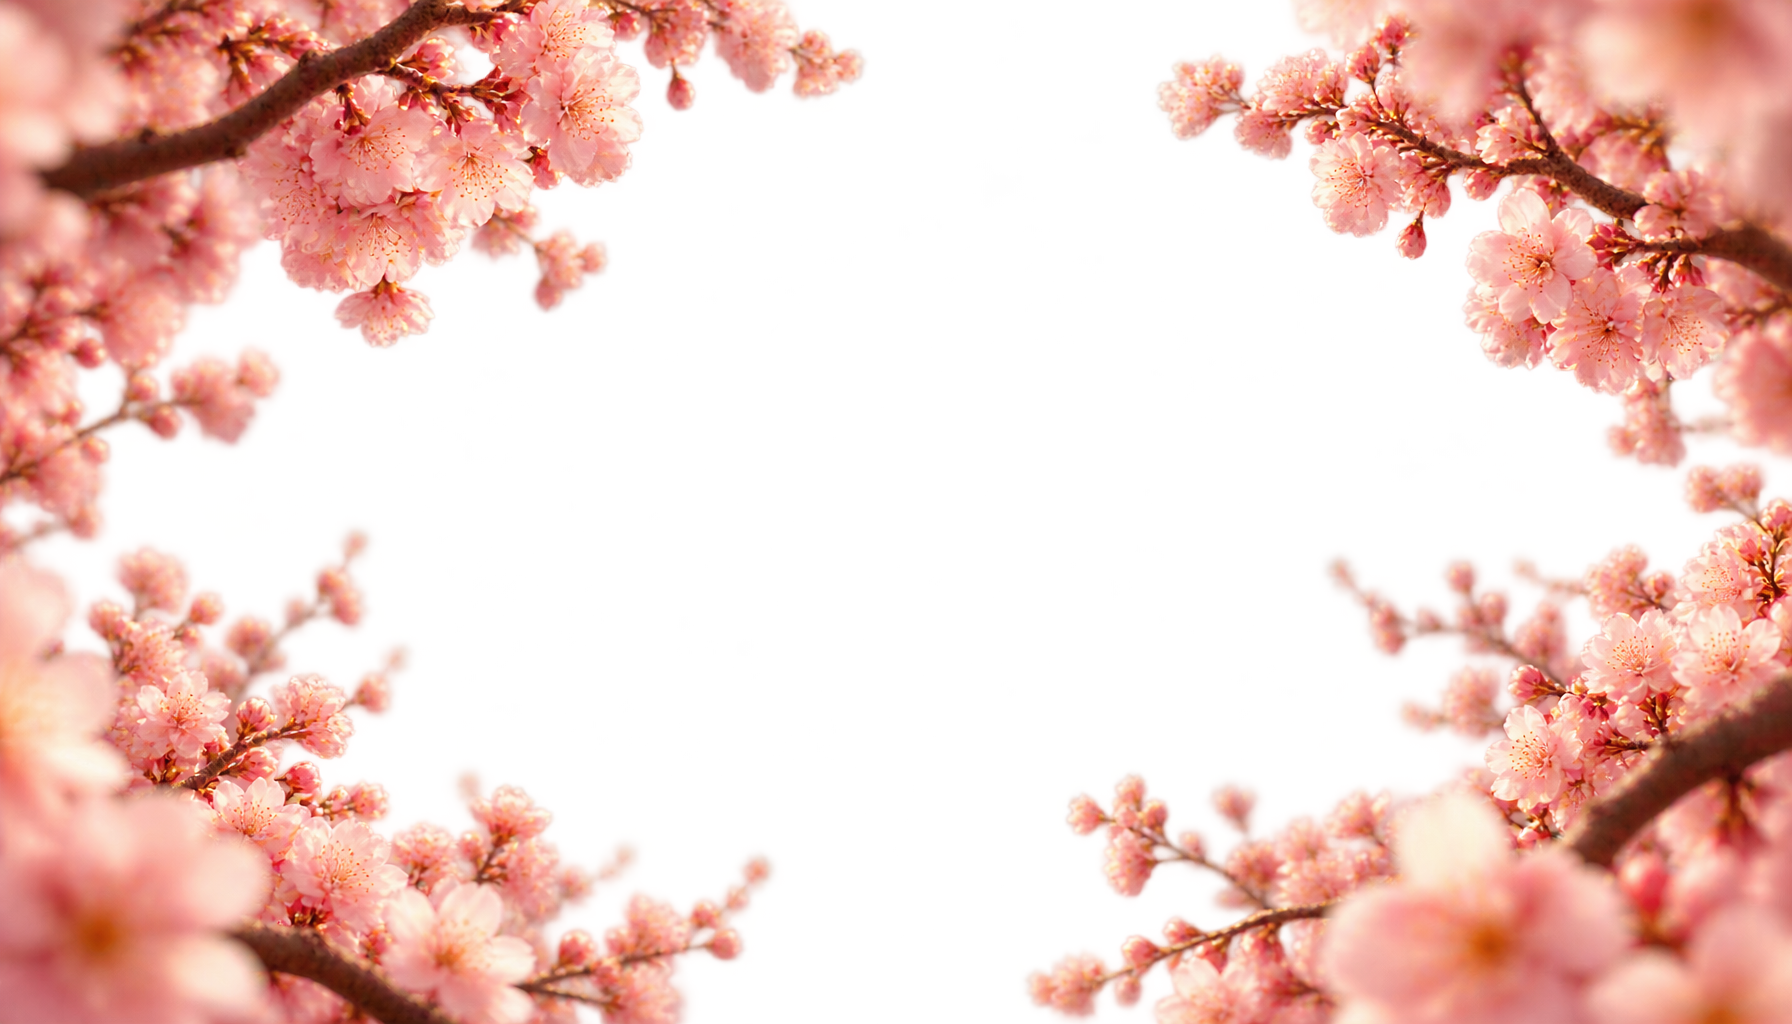
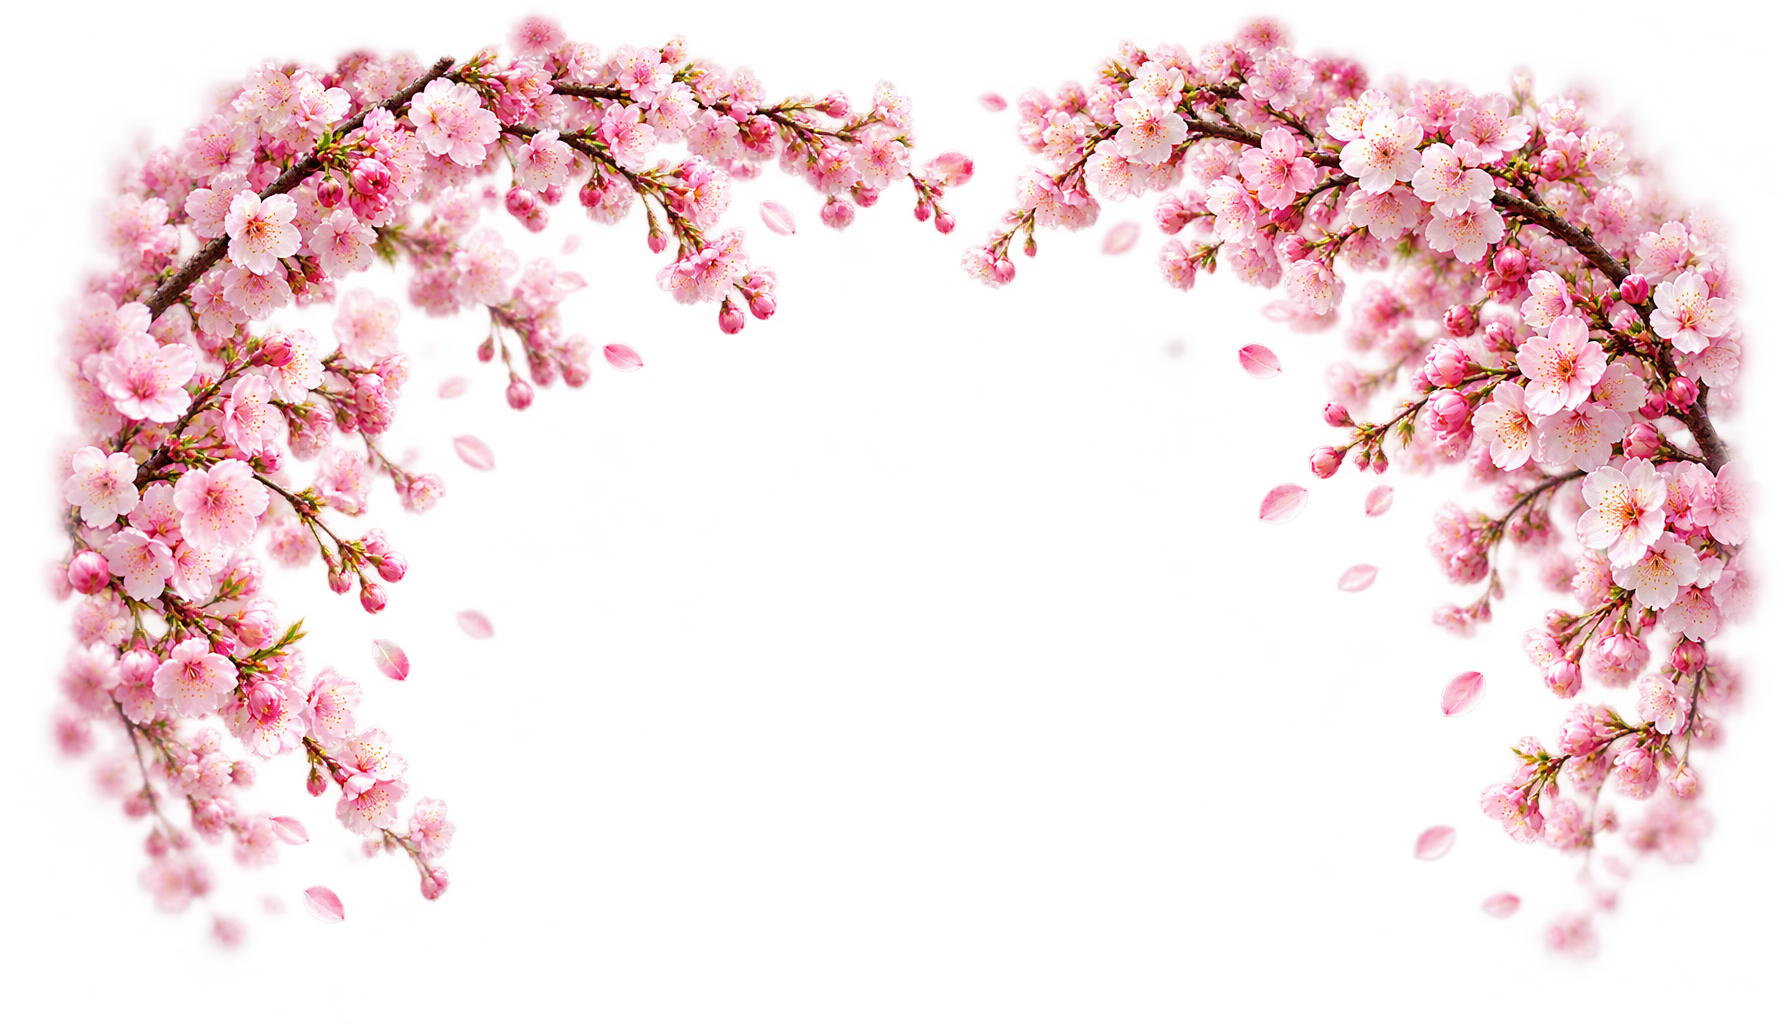
TASK-DB-0088b: regenerate the sakura plates, fix mobile crop and cut perf
Owner review of the live page rejected the Work foreground as nothing like
the reference: plate-work-fg was a wall of out-of-focus bokeh covering half
the frame, and the plates' alpha stopped in visible flat edges. The bloom
plates shared both faults. Three more defects: portrait phones cover-crop
the 1792x1024 landscape plates about 4x (giant blobs, plate edges in view,
and the arrival->work crossfade reads as a fast zoom), the cut-scene
particles stalled the page, and the moon was barely visible on mobile at
night.

Made through ABA's runner in iterate mode (cr-0088e; the runner's own
view_render was down this run, so the vendored build was verified locally
at 1440x900 and 390x844 with screenshots, an alpha-feather analysis of
every plate, a scroll trace of the handoff, and a 4x-throttled frame-time
run through the cut).

- work-fg + both bloom plates regenerated: sharp petal-detailed sprays
  framing the edges, centre open, alpha fully feathered before all four
  image borders
- portrait variants (1024x1536) for work-fg and both bloom plates, swapped
  in by @media (orientation: portrait); same box and fit so the handoff
  stays a cross-fade, not a zoom
- moon positioned per aspect (upper third on portrait, size 19vmin < 768px)
- particles tier-capped: coarse 24 idle / pool 96, DPR clamped to 1

diff --git a/frontend/version-2-app/src/styles/journey.css b/frontend/version-2-app/src/styles/journey.css
@@ -225,13 +225,25 @@ html[data-reduced="true"] .db-daylight[data-half="b"] {
   opacity: var(--bloom-op, 1);
 }
 
+/*
+ * The box and the background position are the near branch plane's own (see
+ * .db-work-fg), so the bloom and the branch plane are crops of the same kind of
+ * image at the same scale in the same place. They are the two layers that
+ * actually cross-fade — the bloom is still fading out while --work-fg is already
+ * ramping up — so if their crops drifted apart that dissolve would read as a
+ * sudden zoom. Matched, the handoff is a pure cross-fade.
+ *
+ * The plate itself is chosen in CSS from the two URLs the component hands down,
+ * so the portrait composition can replace the landscape one with nothing inline
+ * to fight and no base path baked into this file.
+ */
 .db-bloom-plate {
   position: absolute;
-  inset: -3% -3%;
+  inset: -8% -6%;
   background-repeat: no-repeat;
   background-size: cover;
   background-position: center;
-  will-change: transform, opacity;
+  background-image: var(--bg-land, none);
 }
 
 /*
@@ -340,9 +352,33 @@ html[data-reduced="true"] .db-daylight[data-half="b"] {
   background-repeat: no-repeat;
   background-size: cover;
   background-position: center;
+  background-image: var(--bg-land, none);
   opacity: var(--work-fg, 0);
   transform: translate3d(0, var(--par-fg, 0px), 0);
   will-change: transform, opacity;
+}
+
+/*
+ * Portrait phones. A 1792x1024 plate under `cover` in a 390x844 frame shows only
+ * its centre quarter — every blossom is magnified about four times and the
+ * plate's own edge can walk into the viewport. These plates are painted for the
+ * tall frame instead (sprays down both margins, centre open), and because the
+ * box is the viewport exactly, `cover` on the portrait aspect can never bring a
+ * plate edge into view.
+ *
+ * The bloom and the branch plane take the same box and the same fit, so the
+ * handoff between them stays a cross-fade here too.
+ */
+@media (orientation: portrait) {
+  .db-bloom-plate {
+    inset: 0;
+    background-image: var(--bg-port, var(--bg-land, none));
+  }
+
+  .db-work-fg {
+    inset: 0;
+    background-image: var(--bg-port, var(--bg-land, none));
+  }
 }
 
 /* the paper left at the edges of the frame cools into the night */
@@ -410,6 +446,67 @@ html[data-reduced="true"] .db-daylight[data-half="b"] {
     rgba(246, 196, 152, 0.4) 58%,
     rgba(232, 152, 140, 0) 82%
   );
+}
+
+/*
+ * The moon. Same shape of rig as the sun — a zero-size track the disc is centred
+ * on with margins, so the breathing animation can keep ownership of the
+ * transform — but placed from viewport percentages rather than solved from a
+ * plate crop, which is what keeps it in the upper third on a portrait phone.
+ * Its own opacity carries the change of light, so it fades up as the night
+ * settles and is never the layer that crosses the cut.
+ */
+.db-moon {
+  position: absolute;
+  inset: 0;
+  z-index: 4;
+  opacity: var(--moon-op, 0);
+}
+
+.db-moon-track {
+  position: absolute;
+  left: var(--moon-x, 69%);
+  top: var(--moon-y, 20%);
+  width: 0;
+  height: 0;
+}
+
+.db-moon-halo,
+.db-moon-disc {
+  position: absolute;
+  left: 0;
+  top: 0;
+  border-radius: 9999px;
+}
+
+.db-moon-halo {
+  width: calc(var(--moon-size, 12vmin) * 4.4);
+  height: calc(var(--moon-size, 12vmin) * 4.4);
+  margin-left: calc(var(--moon-size, 12vmin) * -2.2);
+  margin-top: calc(var(--moon-size, 12vmin) * -2.2);
+  background: radial-gradient(
+    circle,
+    rgba(214, 228, 255, 0.24) 0%,
+    rgba(184, 204, 255, 0.1) 38%,
+    rgba(150, 175, 235, 0) 70%
+  );
+  animation: db-breathe 27s ease-in-out infinite;
+}
+
+/* a pale disc with its light coming from the upper left, so it reads as a moon */
+.db-moon-disc {
+  width: var(--moon-size, 12vmin);
+  height: var(--moon-size, 12vmin);
+  margin-left: calc(var(--moon-size, 12vmin) / -2);
+  margin-top: calc(var(--moon-size, 12vmin) / -2);
+  background: radial-gradient(
+    circle at 38% 34%,
+    #ffffff 0%,
+    #eef3ff 40%,
+    #d2ddf5 70%,
+    #aebddf 100%
+  );
+  box-shadow: 0 0 42px 14px rgba(188, 208, 255, 0.22);
 }
 
 /* -------------------------------------------------------------------- haze */
@@ -872,6 +969,20 @@ html[data-reduced="true"] .db-daylight[data-half="b"] {
   box-shadow:
     inset 0 1px 0 rgba(255, 226, 196, 0.14),
     0 30px 70px -34px rgba(11, 5, 16, 0.95);
+}
+
+/*
+ * Coarse tier. The backdrop-filter is the most expensive thing on the page: it
+ * re-filters a full-width strip behind the card whenever anything under it
+ * moves, and the cut moves everything at once — which is what made the tear
+ * stutter on a phone. The card is a dark translucent pane either way, so the
+ * blur goes and only a little softness with it. The fine tier keeps it.
+ */
+@media (max-width: 767px) {
+  .db-card {
+    -webkit-backdrop-filter: none;
+    backdrop-filter: none;
+  }
 }
 
 /* the two posts a signboard stands on */

diff --git a/frontend/version-2-app/src/components/journey/ParticleField.tsx b/frontend/version-2-app/src/components/journey/ParticleField.tsx
@@ -74,7 +74,16 @@ export function ParticleField() {
     };
 
     const resize = () => {
-      const dpr = Math.min(1.5, window.devicePixelRatio || 1);
+      /*
+       * The backing store is resolution-capped, not just DPR-capped. The canvas
+       * is a full-viewport transparent surface re-uploaded every frame, so its
+       * pixel count is the whole cost of the effect — and on the coarse tier it
+       * was a 1.5x backing store over the tear, which is exactly where the
+       * particle field peaks and where the frame budget is thinnest. Capping the
+       * coarse tier at 1.0 keeps the sparks the same size in CSS pixels while
+       * cutting the fill by more than half; the fine tier keeps its 1.5.
+       */
+      const dpr = Math.min(detectTier() === "coarse" ? 1 : 1.5, window.devicePixelRatio || 1);
       // measured here, not from journey.vw: child effects run before the
       // scroll driver's effect has written anything, so reading the shared
       // state on mount sized the canvas 0x0 and the petals never appeared
@@ -86,8 +95,10 @@ export function ParticleField() {
       canvas.height = Math.round(h * dpr);
       ctx.setTransform(dpr, 0, 0, dpr, 0, 0);
       particles = Array.from({ length: count() }, () => seed({} as P, true));
-      // one pooled spark per slot, so a burst never allocates mid-frame
-      const cap = detectTier() === "coarse" ? 150 : 420;
+      // one pooled spark per slot, so a burst never allocates mid-frame. the
+      // pool is sized to what the emitters can actually ask for on this tier,
+      // because every live slot is integrated and drawn with two or three arcs
+      const cap = detectTier() === "coarse" ? 96 : 420;
       sparks = Array.from({ length: cap }, () => ({
         x: 0, y: 0, vx: 0, vy: 0, r: 1, life: 0, max: 1, hot: 0,
       })) as Spark[];
@@ -191,7 +202,7 @@ export function ParticleField() {
       if (imp > 0.02) {
         const ix = w / 2 + SEAM.nx * journey.seamD;
         const iy = h / 2 + SEAM.ny * journey.seamD;
-        const per = Math.min(coarse ? 5 : 11, Math.round((coarse ? 7 : 20) * imp));
+        const per = Math.min(coarse ? 3 : 11, Math.round((coarse ? 4 : 20) * imp));
         for (let n = 0; n < per; n++) {
           const a = Math.random() * 2 - 1;
           const o = Math.random() * 2 - 1;
@@ -215,7 +226,7 @@ export function ParticleField() {
        * keeps shedding heat instead of going dark as it widens.
        */
       if (tear > 0.02 && tear < 0.995) {
-        moteDebt += (coarse ? 16 : 46) * dt * (0.4 + 0.6 * tear);
+        moteDebt += (coarse ? 11 : 46) * dt * (0.4 + 0.6 * tear);
         while (moteDebt >= 1) {
           moteDebt -= 1;
           const side = Math.random() < 0.5 ? -1 : 1;

diff --git a/frontend/version-2-app/src/components/journey/Stage.tsx b/frontend/version-2-app/src/components/journey/Stage.tsx
@@ -72,23 +72,51 @@ export function Stage() {
       </div>
 
       {/*
+        The moon. It shares the orb's slot in the scene — above the night plate
+        and the daylight halves, below the tear — but not its geometry: the sun
+        bloom is solved from a sun painted into the arrival plate, while the moon
+        has no such anchor, so the driver places it from viewport percentages
+        (see moonPosition). It sits above the haze so the weather cannot wash it
+        out, and its own opacity carries the change of light, so it is never the
+        layer that crosses the cut.
+      */}
+      <div className="db-moon" aria-hidden="true">
+        <div className="db-moon-track">
+          <div className="db-moon-halo" />
+          <div className="db-moon-disc" />
+        </div>
+      </div>
+
+      {/*
         The intro bloom. Two transparent foreground-only plates — buds at t=0,
         full blossom at full bloom — cross-faded once on load over the frozen
-        arrival plate, which itself never changes. They sit above the daylight
-        halves and below every page layer, and the driver closes --bloom-op
-        before the near branch plane's window opens, so the two fixed foreground
-        layers never stack.
+        arrival plate, which itself never changes. Each plate carries both the
+        landscape and the portrait composition as custom properties and CSS picks
+        one, so the tall frame gets artwork painted for it. They sit above the
+        daylight halves and below every page layer, and the driver closes
+        --bloom-op before the near branch plane's window opens, so the two fixed
+        foreground layers never stack.
       */}
       <div className="db-bloom db-bloom-buds" aria-hidden="true">
         <div
           className="db-bloom-plate db-bloom-plate-buds"
-          style={{ backgroundImage: `url(${ART.bloomBuds})` }}
+          style={
+            {
+              "--bg-land": `url(${ART.bloomBuds})`,
+              "--bg-port": `url(${ART.bloomBudsPortrait})`,
+            } as CSSProperties
+          }
         />
       </div>
       <div className="db-bloom db-bloom-full" aria-hidden="true">
         <div
           className="db-bloom-plate db-bloom-plate-full"
-          style={{ backgroundImage: `url(${ART.bloomFull})` }}
+          style={
+            {
+              "--bg-land": `url(${ART.bloomFull})`,
+              "--bg-port": `url(${ART.bloomFullPortrait})`,
+            } as CSSProperties
+          }
         />
       </div>
 

diff --git a/frontend/version-2-app/src/lib/art.ts b/frontend/version-2-app/src/lib/art.ts
@@ -30,8 +30,19 @@ export const ART = {
   workBg: plate("plate-work-bg.png"),
   /** Scene 2 — the work scene, mid plane: torii, lantern village, pagodas, boat */
   workMid: plate("plate-work-mid.png"),
-  /** Scene 2 — the work scene, near plane: blurred sakura crossing the frame edges */
+  /**
+   * Scene 2 — the work scene, near plane: sharp sakura sprays framing the frame
+   * edges, centre open. Alpha feathered to nothing well inside the plate, so no
+   * rectangular edge can show.
+   */
   workFg: plate("plate-work-fg.png"),
+  /**
+   * The portrait compositions. A landscape plate under `cover` on a phone shows
+   * only its centre quarter, which magnifies every blossom about four times and
+   * can bring the plate's own edge into view; these are painted for the tall
+   * frame instead, so the sprays sit on the margins at their intended scale.
+   */
+  workFgPortrait: plate("plate-work-fg-portrait.png"),
   /**
    * Scene 1 — the intro bloom, two transparent foreground-only plates of the
    * same edge-framing composition: buds at t=0 and full blossom at full bloom.
@@ -39,6 +50,8 @@ export const ART = {
    */
   bloomBuds: plate("plate-bloom-buds.png"),
   bloomFull: plate("plate-bloom-full.png"),
+  bloomBudsPortrait: plate("plate-bloom-buds-portrait.png"),
+  bloomFullPortrait: plate("plate-bloom-full-portrait.png"),
 } as const;
 
 /**
@@ -86,7 +99,25 @@ export const ORB = {
   sunSink: 0.13,
   /** the disc size, in vmin */
   size: (vw: number) => (vw < 768 ? 21 : 16),
+  /** the moon's own disc size, in vmin — a touch smaller than the sun's bloom */
+  moonSize: (vw: number) => (vw < 768 ? 19 : 12),
 } as const;
+
+/**
+ * The moon, as a % of the viewport.
+ *
+ * The sun bloom has to be solved from the arrival plate's crop, because it sits
+ * on a sun painted into that plate. The moon has no such anchor: the night plate
+ * is a different scene, and on a portrait phone the landscape plates under
+ * `cover` show only their centre quarter, which is what pushed the orb out to
+ * the very edge of the frame. Placing it from viewport percentages instead puts
+ * it where a moon belongs — the upper third — on either aspect. Portrait sits a
+ * little higher and nearer the right margin, because its frame is tall and
+ * narrow.
+ */
+export function moonPosition(vw: number, vh: number) {
+  return vw < vh ? { x: 67, y: 17 } : { x: 69, y: 20 };
+}
 
 /** Where the painted sun actually lands on screen, as a % of the viewport. */
 export function sunPosition(vw: number, vh: number) {

diff --git a/frontend/version-2-app/src/hooks/useJourneyScroll.ts b/frontend/version-2-app/src/hooks/useJourneyScroll.ts
@@ -1,5 +1,5 @@
 import { useEffect } from "react";
-import { ART, ORB, SEAM, sunPosition } from "@/lib/art";
+import { ART, ORB, SEAM, moonPosition, sunPosition } from "@/lib/art";
 import { journey, detectTier, type Tier } from "@/lib/journey-state";
 
 const clamp = (v: number, a = 0, b = 1) => (v < a ? a : v > b ? b : v);
@@ -72,6 +72,16 @@ export function useJourneyScroll() {
       root.style.setProperty("--sun-y", `${sunPct.y.toFixed(2)}%`);
       const size = ORB.size(vw);
       root.style.setProperty("--sun-size", `${size}vmin`);
+
+      // The moon is placed from viewport percentages rather than solved from a
+      // plate crop. It has no painted anchor to sit on, and on a portrait phone
+      // `cover` shows only the middle of the landscape plates, which is what
+      // pushed the orb out of the visible band. Viewport percentages put it in
+      // the upper third on either aspect.
+      const moon = moonPosition(vw, vh);
+      root.style.setProperty("--moon-x", `${moon.x.toFixed(2)}%`);
+      root.style.setProperty("--moon-y", `${moon.y.toFixed(2)}%`);
+      root.style.setProperty("--moon-size", `${ORB.moonSize(vw)}vmin`);
 
       const next: Record<Scene, number> = { ...anchors };
       for (const s of SCENES) {
@@ -217,7 +227,7 @@ export function useJourneyScroll() {
        * else and adds no second listener.
        */
       const bloomOut = clamp((vh / max) * 0.85, 0.008, 0.5);
-      set("--bloom-op", (1 - phase(sp, bloomOut * 0.35, bloomOut)).toFixed(4));
+      set("--bloom-op", (1 - phase(sp, bloomOut * 0.72, bloomOut)).toFixed(4));
       set("--night-t", nightT.toFixed(4));
       set("--tear", tear.toFixed(4));
       set("--veil", clamp(0.18 + 0.34 * phase(sp, anchors.about, anchors.cut) - 0.26 * nightT).toFixed(4));
@@ -245,6 +255,9 @@ export function useJourneyScroll() {
       set("--eyes-op", eyes.toFixed(4));
       set("--eyes-scale", (0.9 + 0.14 * tear).toFixed(4));
       set("--orb-t", smooth(phase(tear, 0.34, 0.72)).toFixed(4));
+      // the moon takes over from the sun as the night settles in, so it is
+      // clear of the cut and only appears once the world is actually dark
+      set("--moon-op", smooth(phase(nightT, 0.3, 0.85)).toFixed(4));
       // the sun goes down as the cut opens
       set("--sun-sink", `${(vh * ORB.sunSink * tear).toFixed(1)}px`);
       set("--par-far", `${parFar.toFixed(1)}px`);

diff --git a/frontend/version-2-app/src/components/journey/Work.tsx b/frontend/version-2-app/src/components/journey/Work.tsx
@@ -1,3 +1,4 @@
+import type { CSSProperties } from "react";
 import { PROJECTS, JP_ACCENTS, SCENE_LINES, type Project } from "@/data/content";
 import { ART } from "@/lib/art";
 import { JpAccent } from "./JpAccent";
@@ -31,7 +32,12 @@ export function Work() {
       <div
         className="db-work-fg"
         aria-hidden="true"
-        style={{ backgroundImage: `url(${ART.workFg})` }}
+        style={
+          {
+            "--bg-land": `url(${ART.workFg})`,
+            "--bg-port": `url(${ART.workFgPortrait})`,
+          } as CSSProperties
+        }
       />
 
       <div className="relative mx-auto max-w-5xl">
